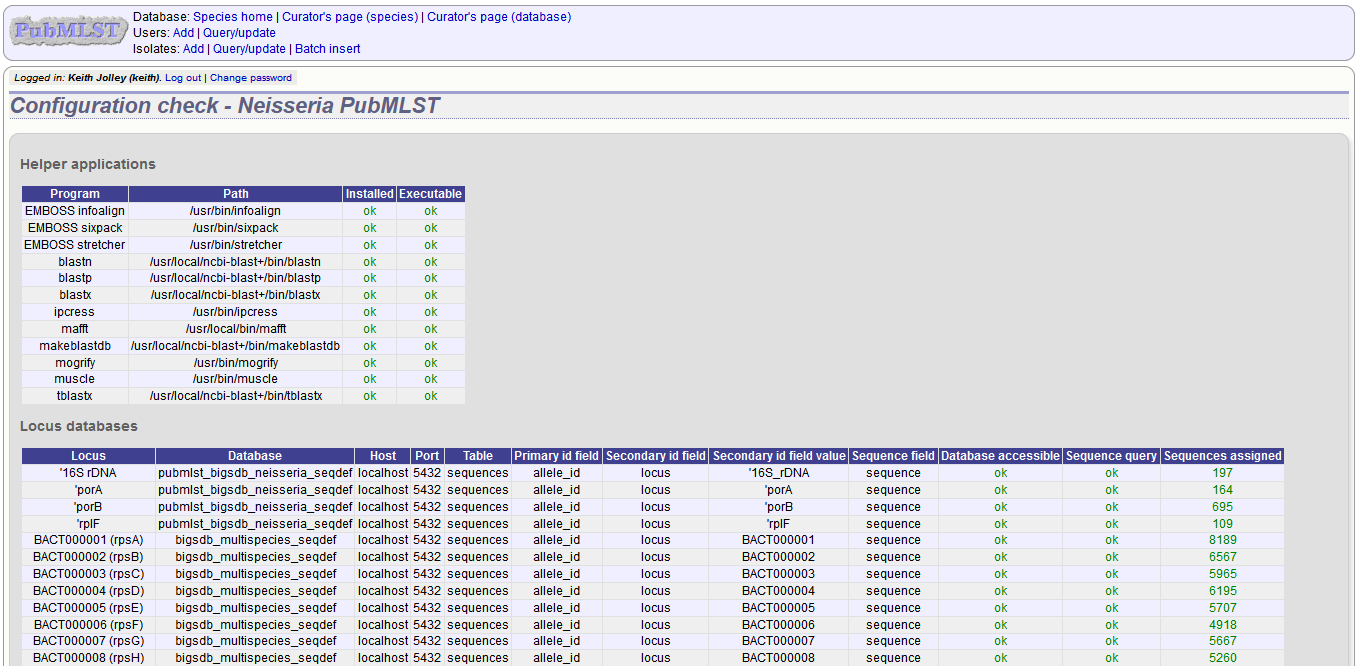
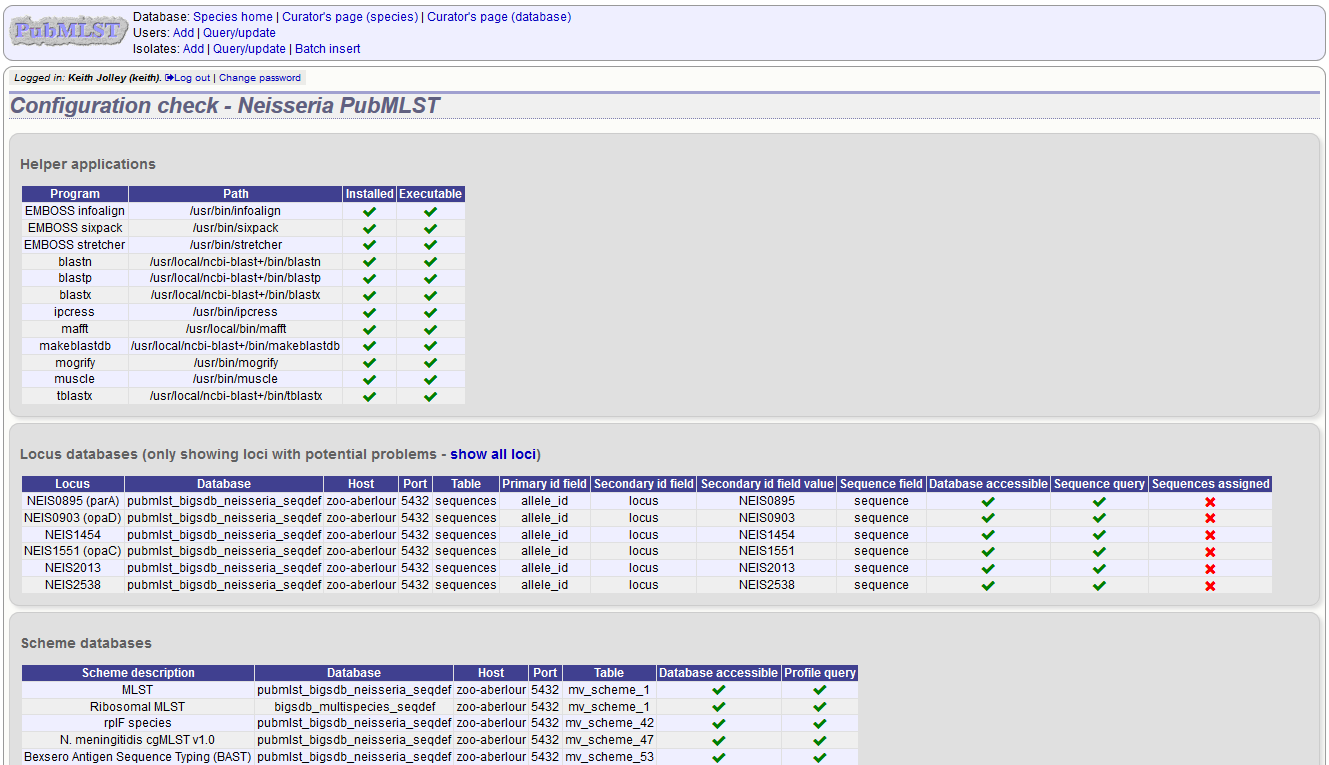
Update config check screenshot.

diff --git a/administration.rst b/administration.rst
@@ -2227,7 +2227,9 @@ Click the 'Configuration check' link on the curator's index page.
 
 The software will check that required helper applications are installed and
 executable and, in isolate databases, test every locus and scheme external
-database to check for connectivity and that data can be retrieved.
+database to check for connectivity and that data can be retrieved. By default,
+only loci which have an issue will be displayed but you can click the 'show
+all loci' link to display them all.
 
 .. image:: /images/administration/config_check2.png
 
